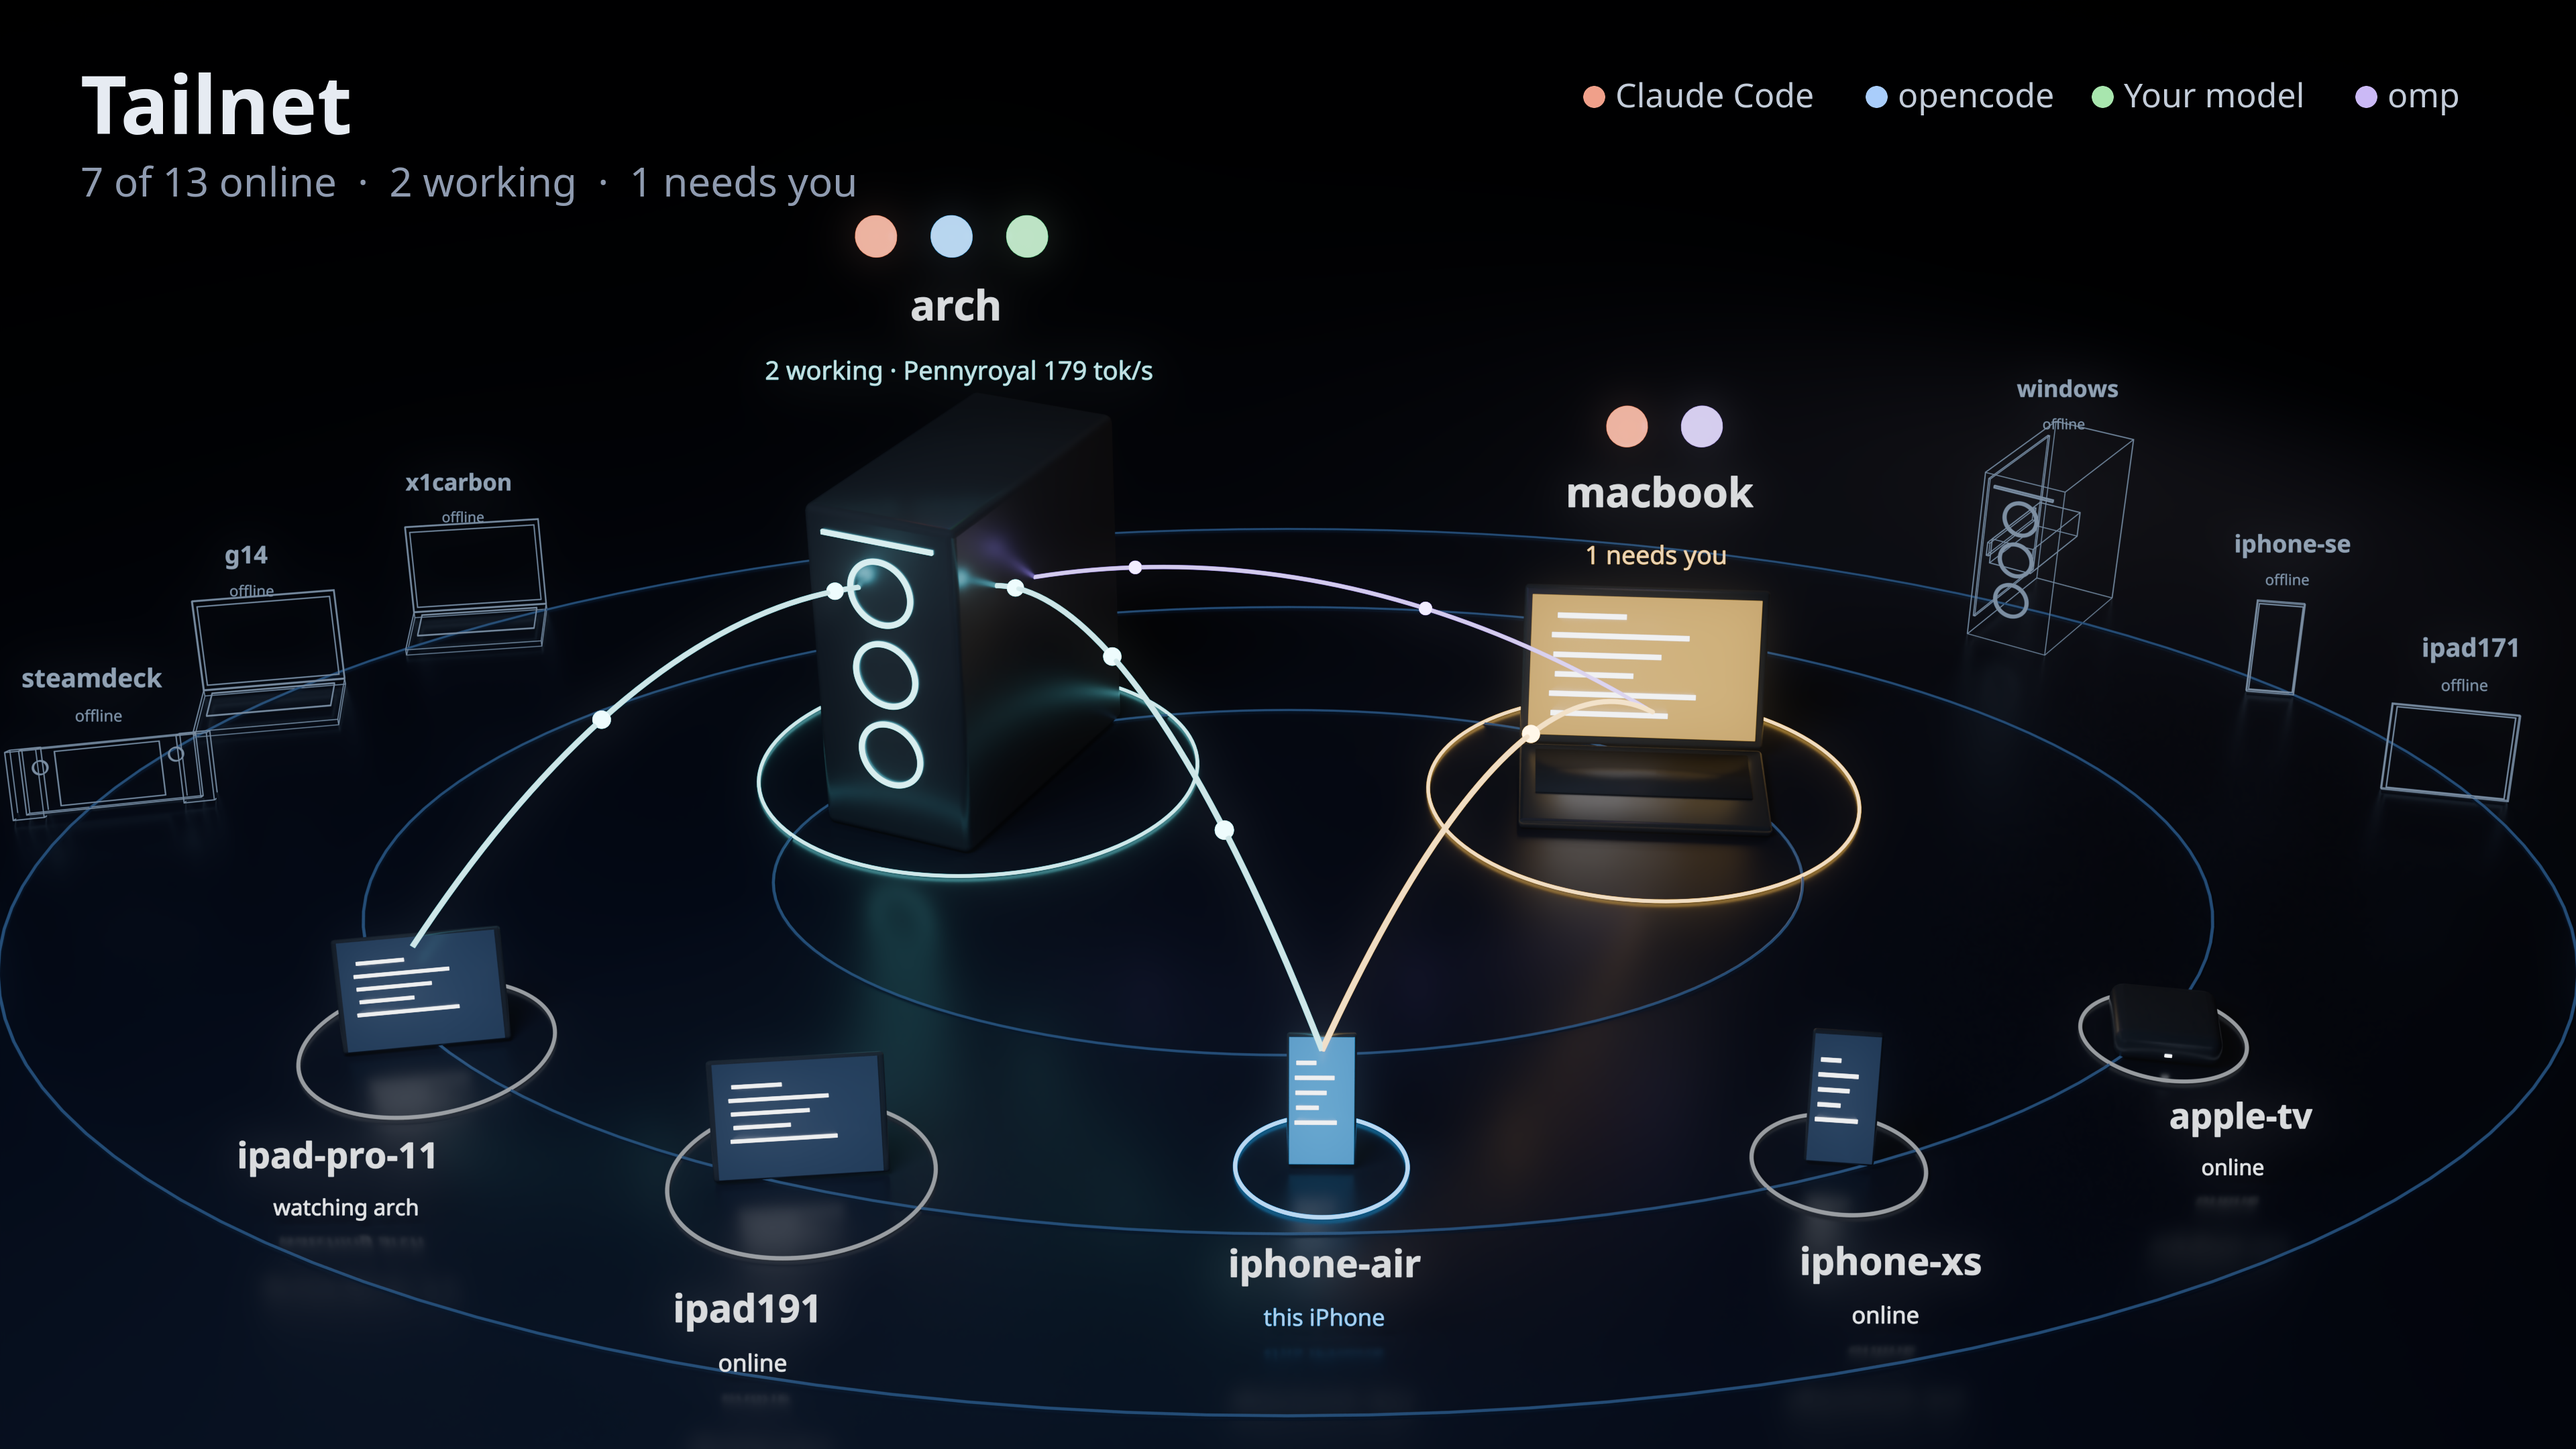
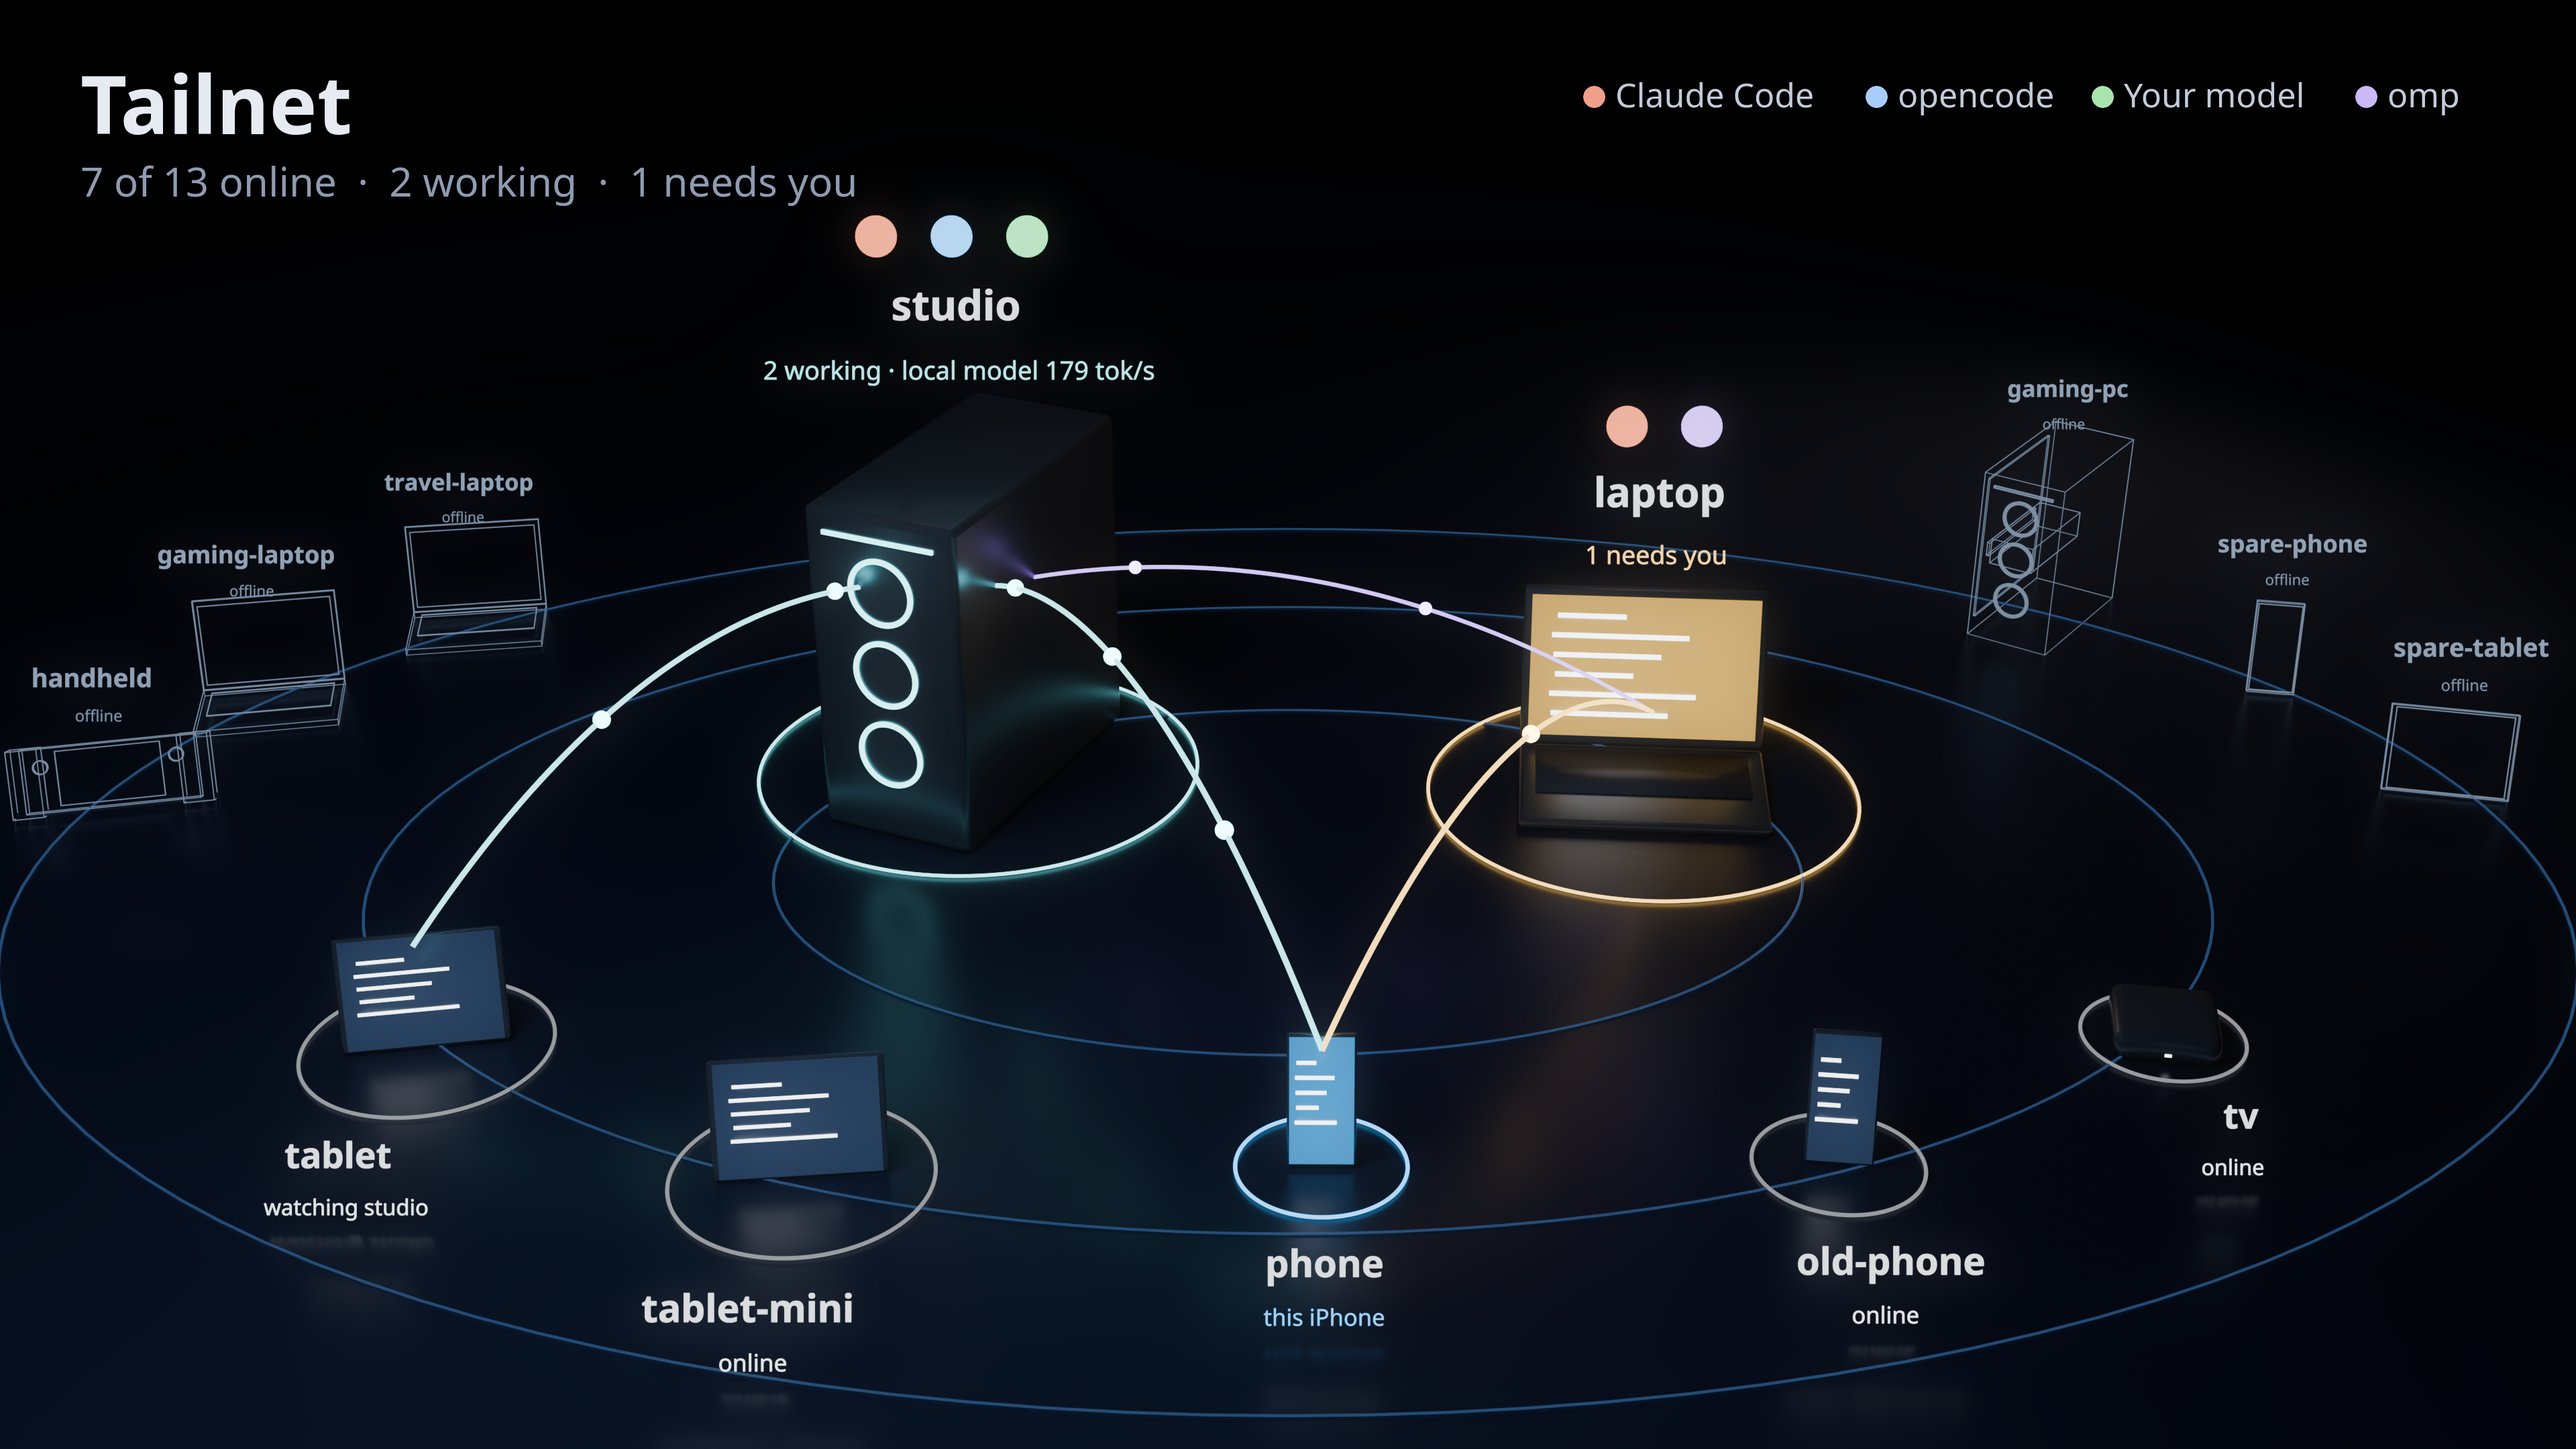
Give the Tailnet mocks made-up machines: the first renders drew a real tailnet's device names, which a public repository has no business carrying. scene.py now names a studio, a laptop, a phone and ten more, the local model is not named, and both mocks are rendered again from it.

diff --git a/docs/tailnet-3d-mocks/scene.py b/docs/tailnet-3d-mocks/scene.py
@@ -28,19 +28,19 @@ FONT_BOLD = "/usr/share/fonts/noto/NotoSans-Bold.ttf"
 FONT_REGULAR = "/usr/share/fonts/noto/NotoSans-Regular.ttf"
 
 MACHINES = [
-    dict(name="arch", kind="tower", state="working", line="2 working · Pennyroyal 179 tok/s", role="host", agents=[CLAUDE, BLUE, GREEN]),
-    dict(name="macbook", kind="laptop", state="needs", line="1 needs you", role="host", agents=[CLAUDE, VIOLET]),
-    dict(name="iphone-air", kind="phone", state="here", line="this iPhone", role="screen"),
-    dict(name="ipad-pro-11", kind="tablet", state="idle", line="watching arch", role="screen"),
-    dict(name="ipad191", kind="tablet", state="idle", line="online", role="screen"),
-    dict(name="iphone-xs", kind="phone", state="idle", line="online", role="screen"),
-    dict(name="apple-tv", kind="puck", state="idle", line="online", role="screen"),
-    dict(name="steamdeck", kind="handheld", state="off", line="offline", role="far"),
-    dict(name="g14", kind="laptop", state="off", line="offline", role="far"),
-    dict(name="x1carbon", kind="laptop", state="off", line="offline", role="far"),
-    dict(name="windows", kind="tower", state="off", line="offline", role="far"),
-    dict(name="iphone-se", kind="phone", state="off", line="offline", role="far"),
-    dict(name="ipad171", kind="tablet", state="off", line="offline", role="far"),
+    dict(name="studio", kind="tower", state="working", line="2 working · local model 179 tok/s", role="host", agents=[CLAUDE, BLUE, GREEN]),
+    dict(name="laptop", kind="laptop", state="needs", line="1 needs you", role="host", agents=[CLAUDE, VIOLET]),
+    dict(name="phone", kind="phone", state="here", line="this iPhone", role="screen"),
+    dict(name="tablet", kind="tablet", state="idle", line="watching studio", role="screen"),
+    dict(name="tablet-mini", kind="tablet", state="idle", line="online", role="screen"),
+    dict(name="old-phone", kind="phone", state="idle", line="online", role="screen"),
+    dict(name="tv", kind="puck", state="idle", line="online", role="screen"),
+    dict(name="handheld", kind="handheld", state="off", line="offline", role="far"),
+    dict(name="gaming-laptop", kind="laptop", state="off", line="offline", role="far"),
+    dict(name="travel-laptop", kind="laptop", state="off", line="offline", role="far"),
+    dict(name="gaming-pc", kind="tower", state="off", line="offline", role="far"),
+    dict(name="spare-phone", kind="phone", state="off", line="offline", role="far"),
+    dict(name="spare-tablet", kind="tablet", state="off", line="offline", role="far"),
 ]
 STATE_COLOR = {"working": TEAL, "needs": AMBER, "here": BLUE, "idle": WHITE, "off": GHOST}
 
@@ -261,18 +261,18 @@ def arc(start, end, lift, color, strength, radius, pulses=0):
 def placements():
     if PORTRAIT:
         return {
-            "arch": (-1.6, 5.2), "macbook": (2.0, 0.8), "iphone-air": (0.2, -4.6),
-            "ipad-pro-11": (-2.9, -1.6), "ipad191": (-2.4, -7.6), "iphone-xs": (2.6, -7.8), "apple-tv": (3.1, -3.6),
-            "steamdeck": (-5.0, 17.0), "g14": (-3.1, 19.6), "x1carbon": (-1.0, 21.0),
-            "windows": (1.2, 21.0), "iphone-se": (3.2, 19.6), "ipad171": (5.0, 17.2),
+            "studio": (-1.6, 5.2), "laptop": (2.0, 0.8), "phone": (0.2, -4.6),
+            "tablet": (-2.9, -1.6), "tablet-mini": (-2.4, -7.6), "old-phone": (2.6, -7.8), "tv": (3.1, -3.6),
+            "handheld": (-5.0, 17.0), "gaming-laptop": (-3.1, 19.6), "travel-laptop": (-1.0, 21.0),
+            "gaming-pc": (1.2, 21.0), "spare-phone": (3.2, 19.6), "spare-tablet": (5.0, 17.2),
         }
     sx, sy = 1.2, 0.8
-    spots = {"arch": (-2.3 * sx, 2.2 * sy), "macbook": (2.6 * sx, 1.6 * sy), "iphone-air": (0.2 * sx, -5.4 * sy)}
-    front = {"ipad-pro-11": 214, "ipad191": 244, "iphone-xs": 300, "apple-tv": 328}
+    spots = {"studio": (-2.3 * sx, 2.2 * sy), "laptop": (2.6 * sx, 1.6 * sy), "phone": (0.2 * sx, -5.4 * sy)}
+    front = {"tablet": 214, "tablet-mini": 244, "old-phone": 300, "tv": 328}
     for name, degrees in front.items():
         angle = math.radians(degrees)
         spots[name] = (6.6 * sx * math.cos(angle), 6.2 * sy * math.sin(angle))
-    back = {"steamdeck": 172, "g14": 156, "x1carbon": 140, "windows": 44, "iphone-se": 27, "ipad171": 10}
+    back = {"handheld": 172, "gaming-laptop": 156, "travel-laptop": 140, "gaming-pc": 44, "spare-phone": 27, "spare-tablet": 10}
     for name, degrees in back.items():
         angle = math.radians(degrees)
         spots[name] = (8.6 * sx * math.cos(angle), 8.9 * sy * math.sin(angle))
@@ -329,7 +329,7 @@ def build():
     tops = {}
     for machine in MACHINES:
         x, y = spots[machine["name"]]
-        scale = {"arch": 1.5, "macbook": 1.45}.get(machine["name"], 1.0 if machine["role"] == "screen" else (1.1 if PORTRAIT else 0.85))
+        scale = {"studio": 1.5, "laptop": 1.45}.get(machine["name"], 1.0 if machine["role"] == "screen" else (1.1 if PORTRAIT else 0.85))
         root = empty(machine["name"], (x, y, 0))
         builder, _ = BUILDERS[machine["kind"]]
         builder(machine, root)
@@ -369,12 +369,12 @@ def build():
 
     def anchor(name):
         x, y, height = tops[name]
-        return (x, y - 0.35, height * 0.62) if name in ("arch", "macbook") else (x, y, height * 0.96)
+        return (x, y - 0.35, height * 0.62) if name in ("studio", "laptop") else (x, y, height * 0.96)
 
-    arc(anchor("arch"), anchor("iphone-air"), 1.5, TEAL, 2.4, 0.02, pulses=3)
-    arc(anchor("arch"), anchor("ipad-pro-11"), 1.3, TEAL, 2.4, 0.02, pulses=2)
-    arc(anchor("macbook"), anchor("iphone-air"), 1.3, AMBER, 2.6, 0.02, pulses=1)
-    arc(anchor("arch"), anchor("macbook"), 0.9, VIOLET, 2.4, 0.016, pulses=2)
+    arc(anchor("studio"), anchor("phone"), 1.5, TEAL, 2.4, 0.02, pulses=3)
+    arc(anchor("studio"), anchor("tablet"), 1.3, TEAL, 2.4, 0.02, pulses=2)
+    arc(anchor("laptop"), anchor("phone"), 1.3, AMBER, 2.6, 0.02, pulses=1)
+    arc(anchor("studio"), anchor("laptop"), 0.9, VIOLET, 2.4, 0.016, pulses=2)
 
     scene.render.engine = "CYCLES"
     prefs = bpy.context.preferences.addons["cycles"].preferences

diff --git a/docs/tailnet-3d.md b/docs/tailnet-3d.md
@@ -2,7 +2,7 @@
 
 Asked for (2026-11-28): "some awesome UI window that shows 3d models of your tailscode network and stuff", using whatever the machines here can help with. This is the look, the reasoning and the plan, in the order the other designs took: look, think, design with rendered mocks, then build. Nothing is built yet.
 
-Mocks: `docs/tailnet-3d-mocks/desk.png` (3840x2160) and `phone.png` (1320x2868), rendered from `scene.py` by Blender 5.3 Cycles on the RTX PRO 6000 in 8 to 26 seconds a frame. They show the real tailnet as it stood that morning: 13 machines, 7 online.
+Mocks: `docs/tailnet-3d-mocks/desk.png` (3840x2160) and `phone.png` (1320x2868), rendered from `scene.py` by Blender 5.3 Cycles on the RTX PRO 6000 in 8 to 26 seconds a frame. They show a tailnet of 13 machines with made-up names, 7 of them online.
 
 ## 1. What exists, and what is missing
 
@@ -31,7 +31,7 @@ One glance should answer three questions: what is on, what is working, what want
 | Orbs above a host | the agent servers it carries | one bead per server in the family's tint: Claude Code, opencode, omp, Your model |
 | Arc | a live stream | from the host that runs a turn to the screen watching it, in the turn's state colour. No stream, no arc: an idle link drawn anyway is the clutter the first mock had |
 | Beads on an arc | traffic | they travel host to screen while events arrive, and stop when the turn waits |
-| Two lines of type | name, then one fact | "arch" over "2 working · Pennyroyal 179 tok/s". Never a third line |
+| Two lines of type | name, then one fact | "studio" over "2 working · local model 179 tok/s". Never a third line |
 
 Hosts stand at the back, larger. The screens stand in an arc at the front with the device in hand front and centre, so every arc ends at "you" without crossing another.
 
